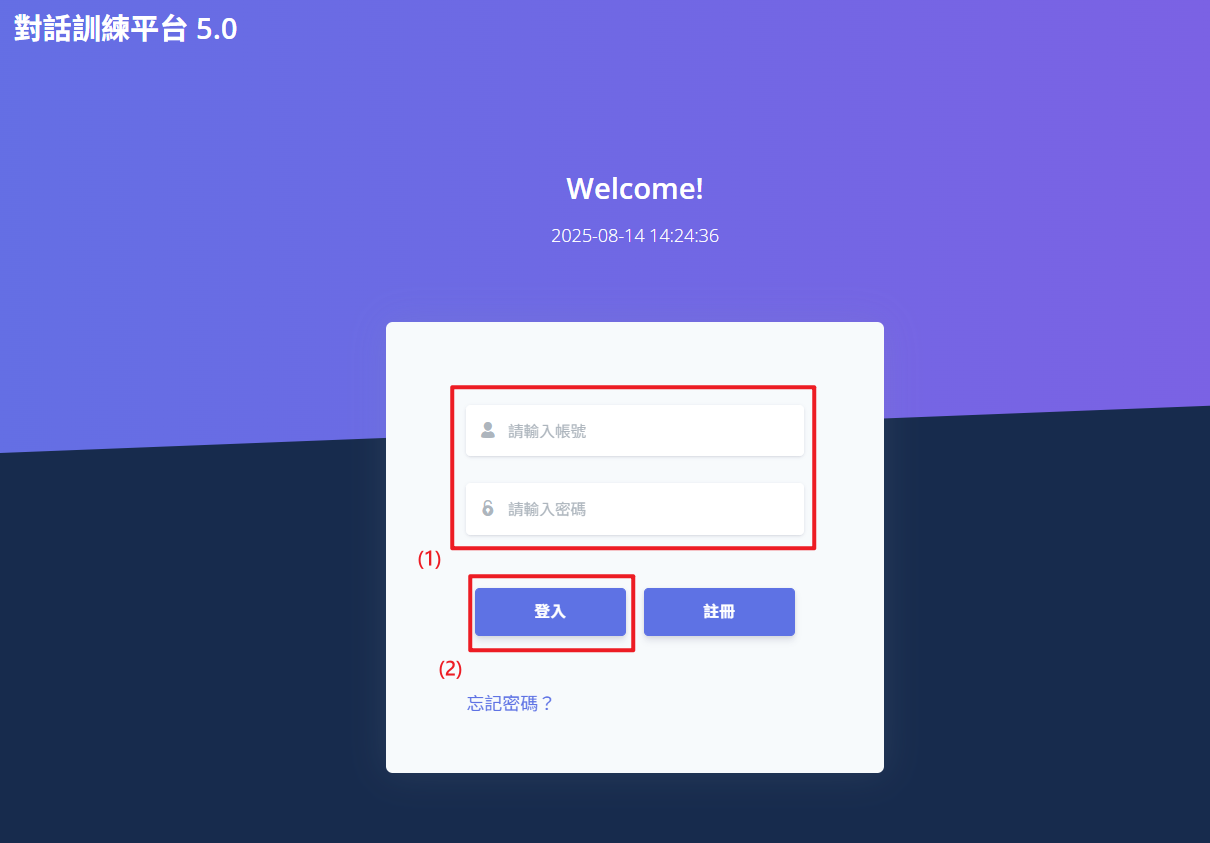
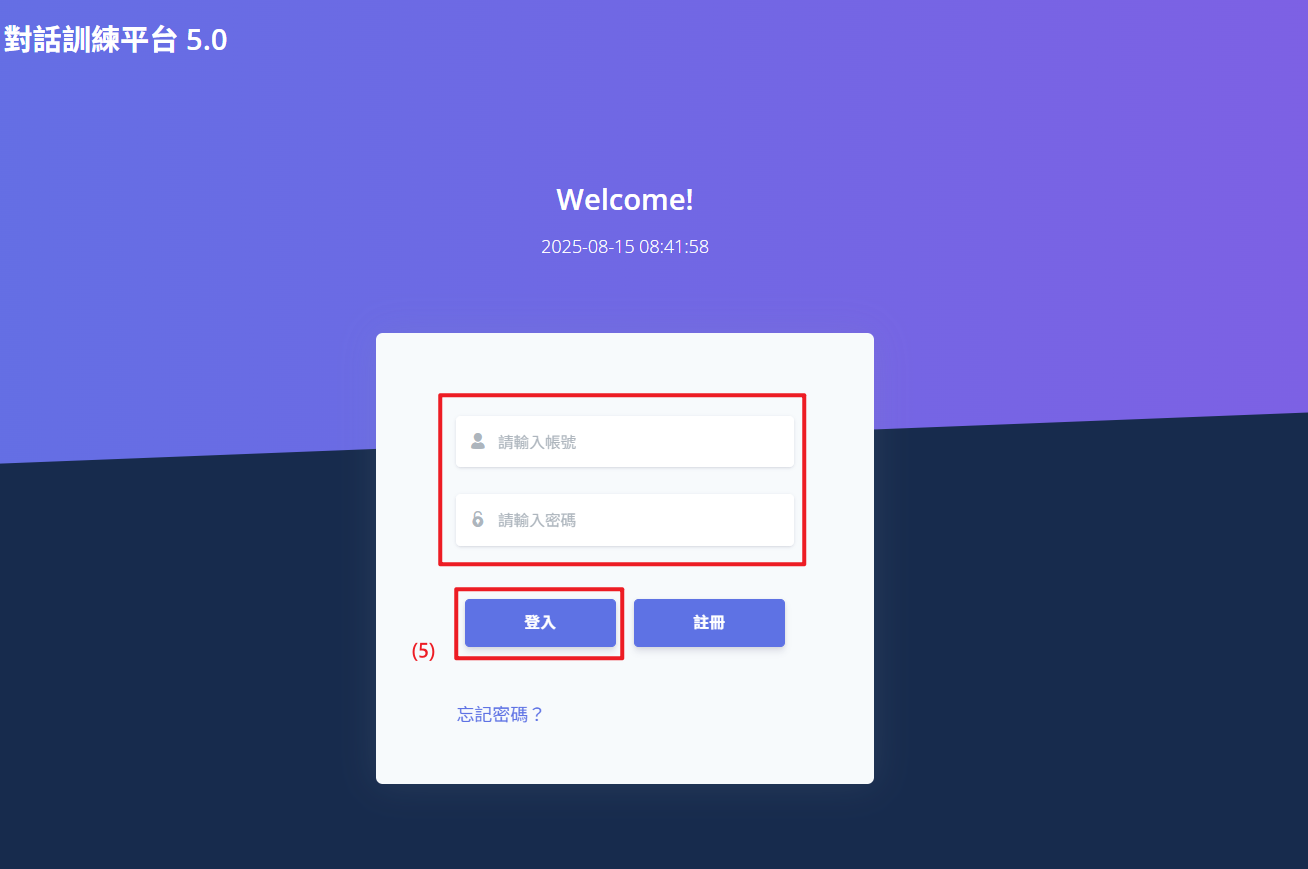
nlu build 會員專區截圖

diff --git a/docs/nlu/app-management/build.md b/docs/nlu/app-management/build.md
@@ -1,0 +1,33 @@
+---
+title: 建置
+sidebar_position: 1
+---
+
+# 建置 - 意圖/實體/特殊詞
+
+使用者可以透過本功能進行任務 APP 訓練作業，包含意圖(Intent)、實體(Entity)、特殊詞(Spexial)的訓練等。此功能旨在協助使用者建立並優化任務 APP 的語言模型，以提升系統對語句的辨識與回應準確度。
+
+## 操作說明
+
+### 意圖 Intent
+
+1. **上傳訓練檔**：點擊右上角「匯入訓練檔」按鈕，選擇本機中的訓練 Excel 檔案，即可完成匯入。檔案內容格式請參考「如何建立訓練 Excel 檔」章節。
+2. **Intent 數量**：顯示目前已建立 Intent 數量。
+3. **語句總數量**：顯示目前已建立語句總數量。
+4. **訓練**：當訓練燈亮起時，點選此按鈕即可進行意圖訓練。
+5. **Intent list**：可查看所有已建立 Intent 及其各自的語句數量。
+
+### 實體 Entity
+
+1. **Entity 數量**：顯示目前已建立 Entity 數量。
+2. **Entity list**：查看各個 Entity 對應的語句數量。
+
+### 特殊詞 Spexial
+
+1. **同義詞**：顯示目前已建立 Entity 的同義詞清單。
+2. **敏感詞**：顯示對話中禁止出現的詞語。
+
+- **如何建立特殊詞 Excel 表?**
+  1. 建立檔案與工作表：開啟一個新的 Excel ，並建立兩個工作表，分別命名為「Synonyms (同義詞)」、「Sensitive (敏感詞)」。
+  2. 新增同義詞：在 Synonyms (同義詞) 工作表中，將第一列設置為目標詞語。在每個目標詞下方依序輸入對應的同義詞。
+  3. 敏感詞新增：在 Sensitive (敏感詞) 工作表中，逐一將敏感詞輸入至欄位中。

diff --git a/docs/nlu/member-features/forget-password-process.md b/docs/nlu/member-features/forget-password-process.md
@@ -15,3 +15,9 @@ sidebar_position: 3
 4. **點擊信件「點我重設密碼」**：前往您的電子郵件收件夾(如：Google 信箱)，找到來自系統的重設密碼信件，並點擊信中的「點我重設密碼」鏈接，進入重設密碼頁面。
 5. **填寫新密碼**：新密碼需符合格式，並且兩次新密碼必須一致。
 6. **點擊「送出」**：確認兩次輸入的新密碼一致後，點擊「送出」按鈕完成重設。成功重設密碼後，系統將自動重導向登入頁面，使用者需再次登入。
+   ![忘記密碼](./img/forget-password-process-01.png)
+   ![會員資料](./img/forget-password-process-02.png)
+   ![帳號信箱確認成功](./img/forget-password-process-03.png)
+   ![信箱連結](./img/forget-password-process-04.png)
+   ![變更密碼](./img/forget-password-process-05.png)
+   ![變更密碼成功](./img/forget-password-process-06.png)

diff --git a/docs/nlu/member-features/login-logout-process.md b/docs/nlu/member-features/login-logout-process.md
@@ -9,7 +9,12 @@ sidebar_position: 1
 
 ## 操作說明
 
+完成註冊流程：依照註冊流程完成註冊後，再進行登入。
+
 1. **點擊「登入」**：在首頁的右上方點擊「登入」按鈕，將跳轉至登入頁面。
 2. **填寫個人會員帳號與密碼**：在登入頁面上，輸入您有效的帳戶名稱與密碼。
 3. **提交登入**：確認所有資料無誤後，點擊「登入」按鈕。若登入成功，系統將自動跳轉至對話訓練平台首頁。
 4. **點擊「登出」**：成功登入後，會員可在左側導航列以及個人頭像中找到「登出」按鈕。點擊後，系統將自動執行登出，確保使用者帳號的安全性。
+   ![登入按鈕](./img/login-logout-01.png)
+   ![填寫登入資料](./img/login-logout-02.png)
+   ![登出](./img/login-logout-03.png)

diff --git a/docs/nlu/member-features/edit-profile-and-password.md b/docs/nlu/member-features/edit-profile-and-password.md
@@ -14,3 +14,5 @@ sidebar_position: 2
 1. **替換個人頭像圖片**：點擊「上載圖片」按鈕，選擇一張照片作為個人頭像使用。圖片檔案限制：JPG 、 PNG ，不可超過 2 MB。
 2. **變更電子郵件**：在帳號內容欄中，更新或填寫電子郵件，確認無誤後點擊「儲存」按鈕進行更新。
 3. **變更密碼**：首先需先驗證舊密碼，並確保新密碼與舊密碼不同且兩次輸入的新密碼相同。成功修改密碼後，系統將自動更新。
+   ![替換個人頭像](./img/edit-profile-and-password-01.png)
+   ![變更電子郵件與密碼](./img/edit-profile-and-password-02.png)

diff --git a/docs/update-log.md b/docs/update-log.md
@@ -6,6 +6,11 @@ sidebar_position: 1
 
 > 新增/修改內容記錄列表
 
+#### 2025/08/15
+
+- 更新 NLU 文件 APP管理章節(建置)
+- 會員專區 截圖
+
 #### 2025/08/14
 
 - 更新 NLU 文件 app管理章節(資訊/bot管理/統計數據)
